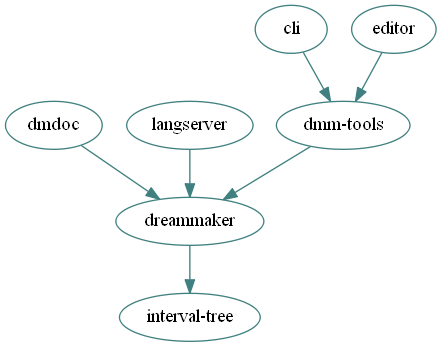
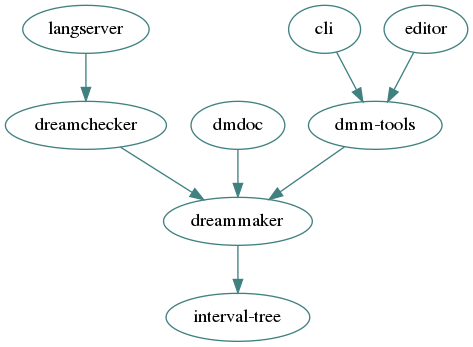
Add dreamchecker to src/README.md

diff --git a/src/README.md b/src/README.md
@@ -14,6 +14,9 @@ optimization flags, taking longer to compile but producing faster executables.
 
 * [dmdoc](dmdoc/) - a doxygen-esque documentation generator for DreamMaker codebases.
 
+* [dreamchecker](dreamchecker/) - extended whole-program analysis and type
+  checking tools for DM codebases.
+
 * [dmm-tools](tools/) - additional libraries for working with DreamMaker icon
   and map files, including a renderer.
 
